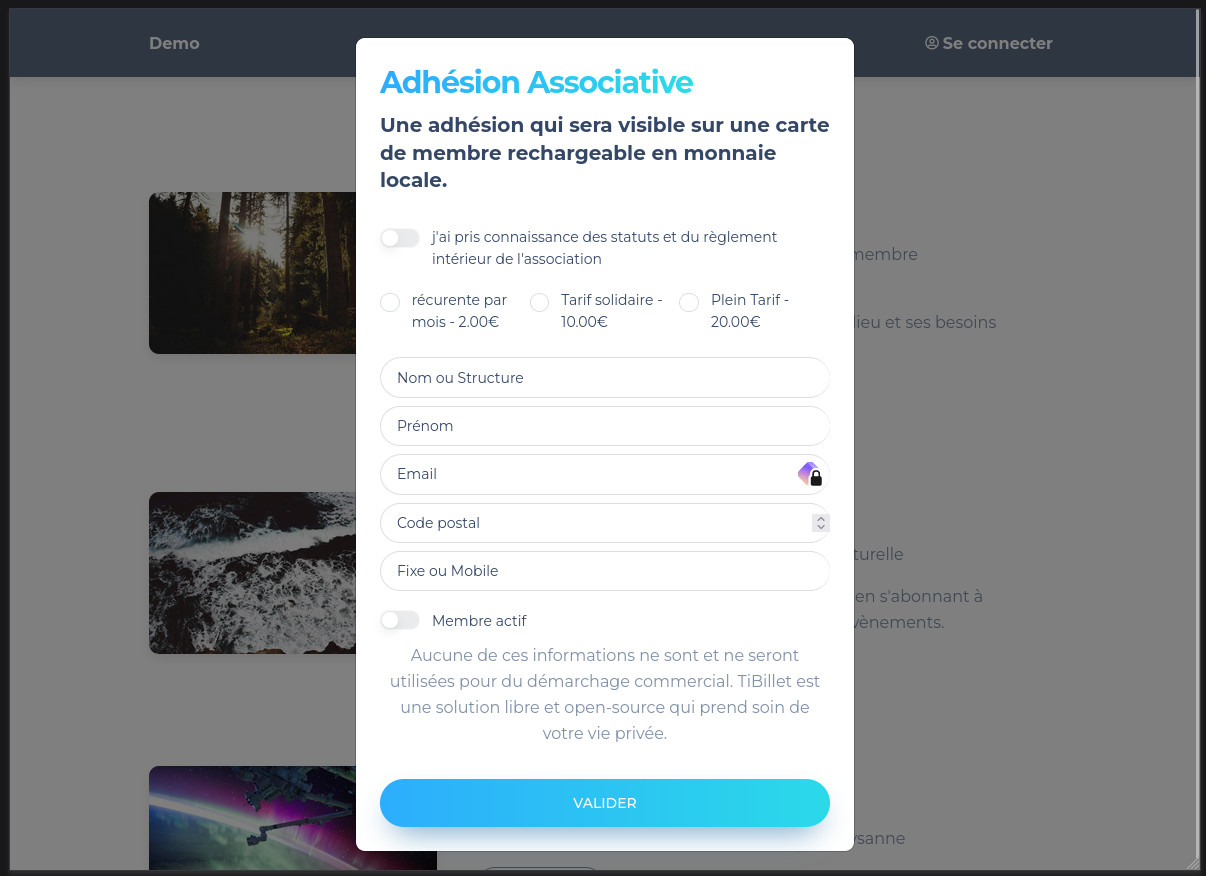
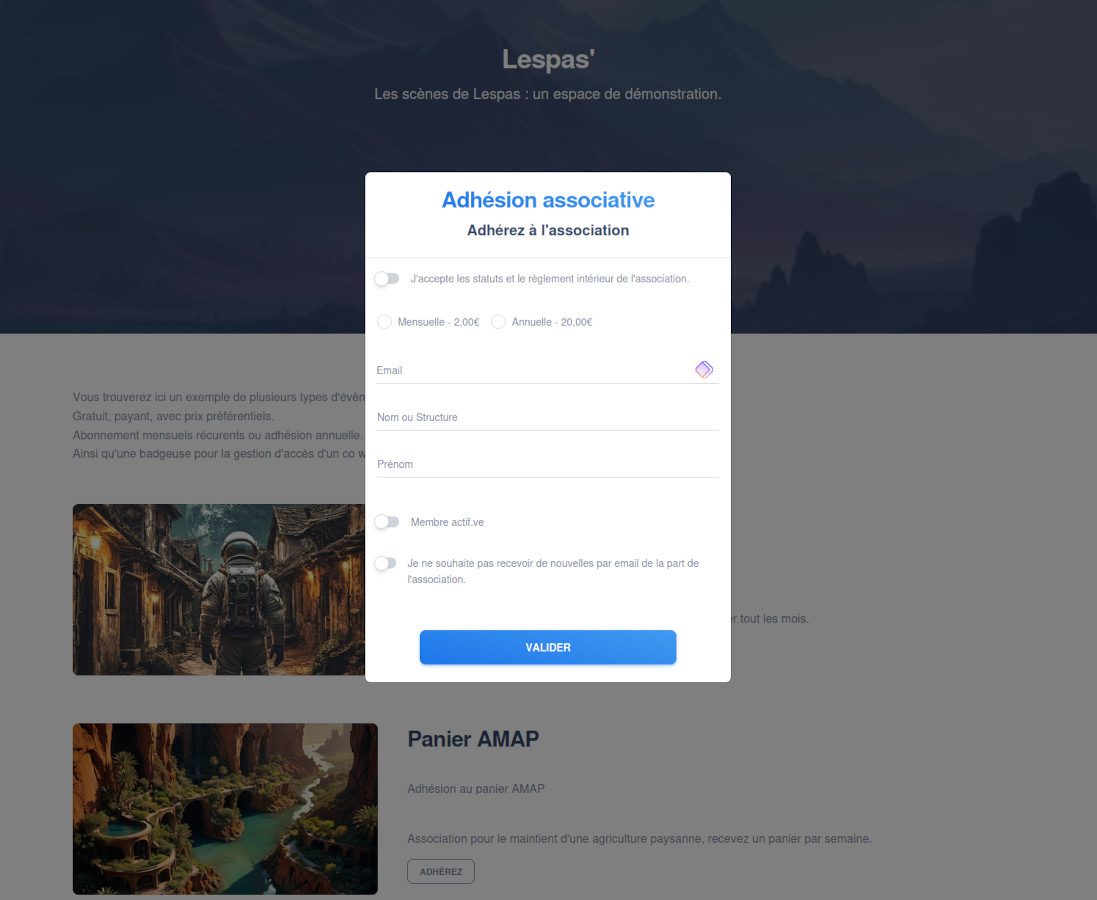
demonstration

diff --git a/i18n/fr/docusaurus-plugin-content-docs/current/presentation/07-Demonstration.md b/i18n/fr/docusaurus-plugin-content-docs/current/presentation/07-Demonstration.md
@@ -9,43 +9,53 @@ tags: [ cashless, billetterie, ticketing, monnaie locale, caisse enregistreuse, 
 authors: jonas
 ---
 
+# Démonstration
+
+
 :::caution
 Le développement de TiBillet est trés actif. Ces instances de démonstrations sont des "nighty build", c'est à dire des
 versions de développement. Il se peut aussi que les instances soient en maintenance. Si vous avez des questions,
-n'hésitez pas à nous contacter par [mail](mailto:contact@tibillet.re), sur [Discord](https://discord.gg/ecb5jtP7vY) ou [Matrix](https://matrix.to/#/#tibillet:tiers-lieux.org) si
-vous avez la moindre question.
+n'hésitez pas à nous contacter par [mail](mailto:contact@tibillet.re), sur [Discord](https://discord.gg/ecb5jtP7vY) ou [Matrix](https://matrix.to/#/#tibillet:tiers-lieux.org).
 :::
 
-# Démonstration
+:::info
+Pour tester le paiement sur Stripe, utilisez la carte bancaire du plus grand routard galactique :
 
-### Billetterie ( nighty build ) :
+- Douglas ADAM
+- 4242 4242 4242 4242
+- 02/42
+- 424
+:::
+
+## Lespass - Adhésion : [https://lespass.demo.tibillet.org/memberships/](https://lespass.demo.tibillet.org/memberships/)
+
+![BilletDemo4_adhesion.jpg](/img/demo/BilletDemo4_adhesion.jpg)
+
+## Lespass - Billetterie ( nighty build ) : [https://lespass.demo.tibillet.org/agenda/](https://lespass.demo.tibillet.org/agenda/)
+
+:::danger
+La Billetterie est en cours de redesign. Sortie prévue : fin 2024.
+L'instance de démonstration n'est pas 100% fonctionnelle, n'hésitez pas à repasser de temps en temps :)
+:::
+
 
 ![BilletDemo1.jpg](/img/demo/BilletDemo1.jpg)
 
 
-#### Tenant (une instance solo, un lieu, un organisateur, un artiste) :
+## LaBoutik - Caisse enregistreuse / Cashless : [https://laboutik.demo.tibillet.org/](https://laboutik.demo.tibillet.org/)
 
-**[https://demo.tibillet.ovh](https://demo.tibillet.ovh)**
-
-Pour tester le paiement sur Stripe, utilisez la carte du plus grand routard galactique :
-
-    Douglas ADAM        
-    4242 4242 4242 4242 
-    02/42 / 424
-
-### Caisse enregistreuse / Cashless / Monnaie locale ( nighty build ) :
+Pour voir l'interface de caisse, cliquez sur "voir le site" de la page d'administration
 
 ![maq2-420.jpg](/img/demo/maq2-420.jpg)
 
-#### administration :
+## Je scanne le QrCode de ma carte tirelire : [https://lespass.demo.tibillet.org/qr/c2b2400c-1f7e-4305-b75e-8c1db3f8d113/](https://lespass.demo.tibillet.org/qr/c2b2400c-1f7e-4305-b75e-8c1db3f8d113/)
 
-**[https://cashless.tibillet.ovh](https://cashless.tibillet.ovh)**
+Dans l'interface LaBoutik, cette carte correspond à "Client 1".
 
-#### Interface de caisse :
+![cartes.jpg](/img/demo/cartes.jpg)
 
-Cliquez sur " voir le site " tout en haut du menu, ou visitez
-**[https://cashless.tibillet.ovh/wv/](https://cashless.tibillet.ovh/wv/)** après vous être loggué.
+## Fedow - Création de fédération : [https://fedow.demo.tibillet.org/dashboard/](https://fedow.demo.tibillet.org/dashboard/)
 
-### Fedow Blockchain explorer :
+Une carte tirelire, une monnaie et une adhésion peuvent être utilisées dans un ou plusieurs lieux. On parle alors de fédération de lieux.
 
-**[https://fedow.tibillet.ovh/dashboard/](https://fedow.tibillet.ovh/dashboard/)**
+![fedow_beta.jpg](/img/demo/fedow_beta.jpg)
